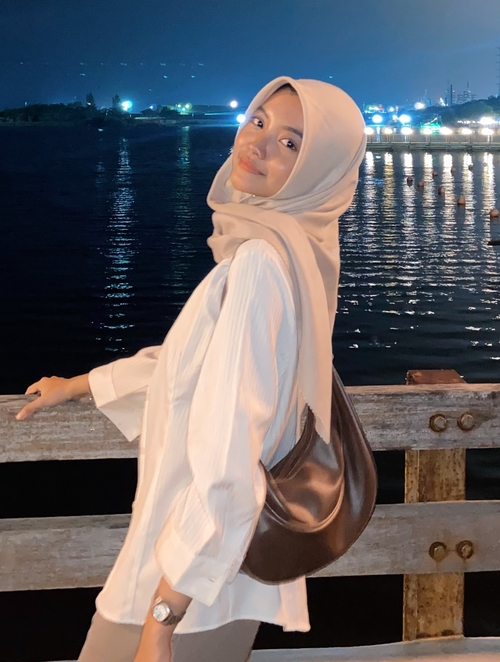
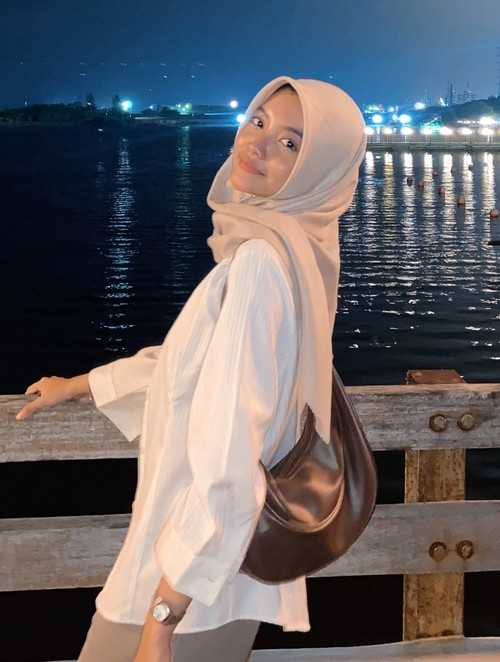
kompres foto dan ganti jalur foto konsultasi pada index.html

diff --git a/index.html b/index.html
@@ -72,7 +72,7 @@
         </div>
 
         <div>
-          <img src="src/imgs/services/Konsultasi.png" alt="Konsultasi" />
+          <img src="src/imgs/services/Konsultasi.jpeg" alt="Konsultasi" />
           <h5>Konsultasi</h5>
           <p>
             Peserta diberikan kebebasan untuk menanyakan perihal tugas dari
